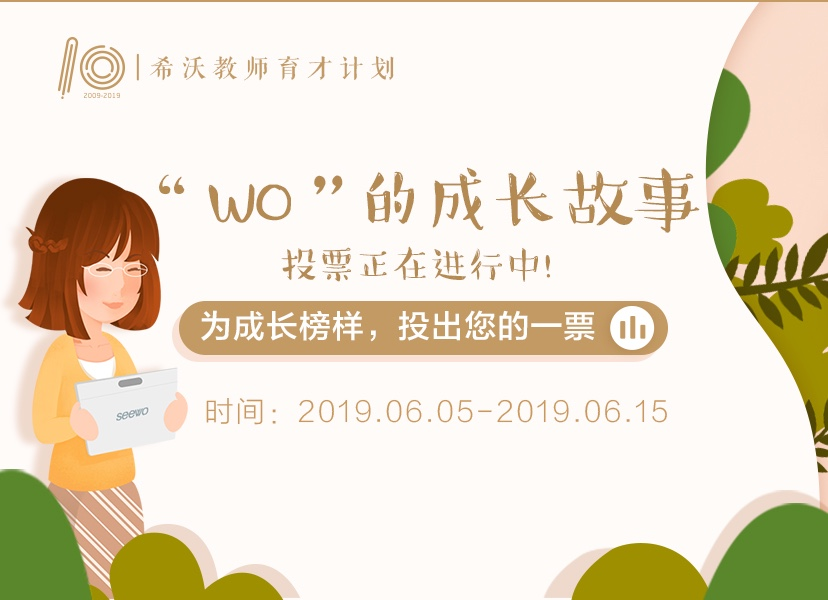
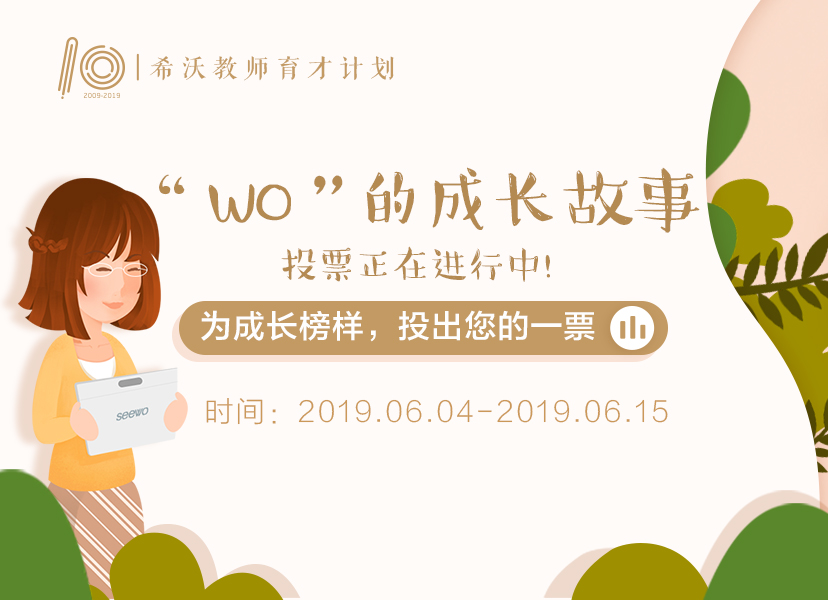
update

diff --git a/seewo/m/dev/article.html b/seewo/m/dev/article.html
@@ -1,1 +1,1 @@
-<!DOCTYPE html><html lang="zh-CN"><head><title>希沃</title><meta name="keywords" content=""><meta name="description" content=""><meta http-equiv="Content-Type" content="text/html; charset=utf-8"><meta name="viewport" content="initial-scale=1,maximum-scale=1,user-scalable=no,width=device-width"><link rel="shortcut icon" type="image/x-icon" href="/favicon.ico"><link rel="stylesheet" href="./css/article.css?v=1"></head><body><div class="main-wrapper"><div class="header"><div class="header-content"><a href="javascript:;" class="logo"><img src="./images/logo.png"></a><a href="./example.html" class="menu-btn"><img src="./images/back.png"></a></div><div class="point-wrapper" id="point-wrapper"><a href="javascript:;" class="point-item">首页</a> <a href="javascript:;" class="point-item">让教育更美好</a> <a href="javascript:;" class="point-item">庆典盛况</a> <a href="javascript:;" class="point-item">育才计划</a> <a href="javascript:;" class="point-item">希沃发展</a> <a href="javascript:;" class="point-item">合作媒体</a></div><div class="vote-pop-wrapper" id="vote-pop-wrapper"><a href="javascript:;" class="point-item">曹燕</a> <a href="javascript:;" class="point-item">陈科军</a> <a href="javascript:;" class="point-item">陈丽娟</a> <a href="javascript:;" class="point-item">陈跃飞</a> <a href="javascript:;" class="point-item">封爱玲</a> <a href="javascript:;" class="point-item">冯汝贵</a> <a href="javascript:;" class="point-item">黄吉雁</a> <a href="javascript:;" class="point-item">李鹏</a> <a href="javascript:;" class="point-item">李亚宁</a> <a href="javascript:;" class="point-item">刘俊</a> <a href="javascript:;" class="point-item">刘霞</a> <a href="javascript:;" class="point-item">陆炳康</a> <a href="javascript:;" class="point-item">罗群</a> <a href="javascript:;" class="point-item">潘多玲</a> <a href="javascript:;" class="point-item">孙果</a> <a href="javascript:;" class="point-item">温惠平</a> <a href="javascript:;" class="point-item">徐开容</a> <a href="javascript:;" class="point-item">闫社锋</a> <a href="javascript:;" class="point-item">严峥</a> <a href="javascript:;" class="point-item">杨波</a> <a href="javascript:;" class="point-item">杨登骥</a> <a href="javascript:;" class="point-item">叶传意</a> <a href="javascript:;" class="point-item">张楠</a> <a href="javascript:;" class="point-item">张颖</a> <a href="javascript:;" class="point-item">赵彩香</a> <a href="javascript:;" class="point-item">赵相文</a> <a href="javascript:;" class="point-item">赵小利</a></div></div><div class="content"><div class="article-wrapper"><div class="art-title">详细规则</div><div class="article-content"><h5>活动主题</h5><p>参与活动：“wo”的成长故事</p><p>官网展示：榜样的力量</p><h5>活动时间</h5><p>故事征集 <span>2019年5月4日-5月25日</span></p><p>展示投票 <span>2019年6月5日-6月15日</span></p><p>获奖公布 <span>2019年6月18日</span></p><h5>活动奖励</h5><p><span>积极奖——按规定要求参与即可</span></p><p>希沃学院商城1000积分</p><p>凡按照要求提交成长故事+佐证材料，在5月5日至5月20日期间提交，即可获得该奖励。（注：用户须保证作品原创性，不得盗用、歪曲、抄袭他人作品）</p><p class="mt50"><span>入围奖——官方评选30份</span></p><p>希沃10周年定制礼盒</p><p>凡参与故事征集，且被官方评选出获得投票资格，即可获得该奖励。官方评选维度包括：</p><p>①故事分享全面且具体，</p><p>②佐证材料的真实且丰富，图片材料不少于一张。</p><p>③叙事角度独到且富有行业感染力</p><p class="mt50"><span>人气奖——投票评比10名</span></p><p>第1名 希科多体征监测仪</p><p>第2-10名 希沃10周年定制银币</p><p>凡参与故事征集，并在投票阶段获得100票以上且进入总票数前10名即可获得该奖励。</p><h5>活动规则</h5><p>1、 各用户参与本次活动的故事征集时间为<span>2019年5月5日-5月25日</span>，投票时间为<span>2019年6月5日-6月15日</span>，结果公布时间为<span>2019年6月18日</span>。</p><p>2、 本次活动仅限希沃注册教师身份用户参与，如用户已拥有希沃账号，登录即可参与。如用户尚未注册，请访问希沃学院官网（<a href="https://study.seewoedu.cn/">https://study.seewoedu.cn/</a>），注册后即可参与。</p><p>3、 如用户按照活动要求上传相关内容，则成功参与本次活动故事征集并获得“积极奖”。同时，故事审核通过的用户将获得“入围奖”，并参与投票。“人气奖”将于6月5日至6月15日在51微投票进行线上公开投票，“教育先行者”游学之旅获奖者将由本次活动组委会综合多维度进行评选。“人气奖”及“游学之旅”奖励评选结果将于2019年6月18日23：59前在希沃学院公众号文章展示公布。</p><p>4、审核以第一次提交的作品为准，同一用户多次提交或提交再修改，均视为无效作品，不予审核。</p><p>5、“积极奖”、“入围奖”及“人气奖”获奖用户将在6月19日前收到希沃工作人员短信通知，用户须在收到私信后7天内提交领奖资料，逾期视为自动放弃。6月30日前，实物奖品将通过快递寄发，并通过号码开头为106的集团短信通知，经验值奖品通过论坛系统自动发放。“教育先行者”游学之旅，工作人员将一对一电话通知，届时请留意</p><p>6、本次活动中，同一用户（同一用户定义包括但不限于同一手机号码、同一IP地址、同一姓名、同一收件地址之用户）仅能获得获得一份“积极奖”奖励，若同一用户重复参与及获奖，我们仅派送一份奖励。</p><p>7、本次活动中，各用户享有的一切奖励均不允许兑换、转让、折现。</p><p>8、参与本次活动，用户须保证用户所上传作品的著作权合法性，承诺该作品不属于歪曲、篡改他人作品或者抄袭、剽窃他人作品而产生的作品，亦不属于改编、翻译、注释、整理他人已有作品而产生的作品。如发现任何侵犯著作权的情况，主办方有权取消该作品参赛资格。</p><p>9、参与本次活动各用户知悉、理解并同意授权广州视睿电子科技有限公司及其关联公司可非独家、可转授权地使用用户通过本次活动发布的内容，前述内容包括但不限于文字、图片、视频等。具体来说，可能会包括：</p><p>·将前述内容通过希沃软件自身或其他第三方技术、网络等在广州视睿电子科技有限公司选择的网络平台、应用程序或产品中，以有线或无线网，通过免费或收费的方式在不同终端（包括但不限于电脑、手机、互联网电视、机顶盒及其他上网设备等）以不同形式（包括但不限于点播、直播、下载等）进行网络传播；</p><p>·将前述内容复制、翻译、编入广州视睿电子科技有限公司当前已知或以后开发的作品、媒体或技术中，用于微博相关用途开发推广宣传等；</p><p>·将前述内容授权给电台、电视台、网络媒体、运营商平台等与广州视睿电子科技有限公司有合作的媒体或运营商播放、传播，用于微博相关推广宣传等；</p><p>·其他广州视睿电子科技有限公司及其关联公司出于善意或另行取得您授权的使用行为；</p><p>·用户对广州视睿电子科技有限公司及其关联公司的前述授权并不改变用户发布内容的所有权及知识产权归属，也并不影响用户行使其对发布内容的合法权利；</p><p>·广州视睿电子科技有限公司将尽最大的商业努力合理使用用户的授权内容，但并不代表广州视睿电子科技有限公司及其关联公司承诺一定会使用。</p><p>10、本次活动由希沃学院组织实施并负责解释；如用户对本次活动及规则有任何疑问、异议，可以联系我们反馈。</p><p>11、 联系信息：非常感谢用户对本次活动的积极参与，如用户有任何问题、意见或疑虑，请通过希沃客服电话：<span>400-186-2505</span>联系我们。</p><h5>H5投票页面规则：</h5><p>1、 各用户参与本次投票活动的时间为<span>2019年6月5日12:00</span>至<span>2019年6月15日23:00</span>，结果公布时间为<span>2019年6月18日</span>。</p><p>2、每个微信账号每天可投2票，不可重复投给同一位选手。</p><p>3、本次活动严禁使用任何外挂插件或利用系统漏洞恶意刷奖，一经发现，所获奖励将不予发放。请尊重其他用户公平参与的权利，切勿恶意刷奖。</p><p>4、用户在参与本次活动中发生的任何费用，包括但不限于上网费、电话费等，均由用户自行承担。</p><p>5、如用户因设备故障、网络错误、操作失误等原因导致无法成功参与本次活动，一切责任由用户自行承担。</p><p>6、鉴于计算机及互联网的特殊性，因包括但不限于黑客、病毒、电信部门技术调整和骨干线路中断等事件以及自然灾害、战争等不可抗拒之因素影响本次活动开展的，则希沃学院有权根据实际情况选择暂缓、中止或取消本次活动，且无需因此向用户承担在任何责任。</p><p>7、本次活动由希沃学院组织实施并负责解释；如用户对本次活动及规则有任何疑问、异议，可以联系我们反馈。</p><p>8、 联系信息：非常感谢用户对本次活动的积极参与，如用户有任何问题、意见或疑虑，请通过希沃客服电话：<span>400-186-2505</span>联系我们。</p></div></div></div></div></body></html>
+<!DOCTYPE html><html lang="zh-CN"><head><title>希沃</title><meta name="keywords" content=""><meta name="description" content=""><meta http-equiv="Content-Type" content="text/html; charset=utf-8"><meta name="viewport" content="initial-scale=1,maximum-scale=1,user-scalable=no,width=device-width"><link rel="shortcut icon" type="image/x-icon" href="/favicon.ico"><link rel="stylesheet" href="./css/article.css?v=1"></head><body><div class="main-wrapper"><div class="header"><div class="header-content"><a href="javascript:;" class="logo"><img src="./images/logo.png"></a><a href="./example.html" class="menu-btn"><img src="./images/back.png"></a></div><div class="point-wrapper" id="point-wrapper"><a href="javascript:;" class="point-item">首页</a> <a href="javascript:;" class="point-item">让教育更美好</a> <a href="javascript:;" class="point-item">庆典盛况</a> <a href="javascript:;" class="point-item">育才计划</a> <a href="javascript:;" class="point-item">希沃发展</a> <a href="javascript:;" class="point-item">合作媒体</a></div><div class="vote-pop-wrapper" id="vote-pop-wrapper"><a href="javascript:;" class="point-item">曹燕</a> <a href="javascript:;" class="point-item">陈科军</a> <a href="javascript:;" class="point-item">陈丽娟</a> <a href="javascript:;" class="point-item">陈跃飞</a> <a href="javascript:;" class="point-item">封爱玲</a> <a href="javascript:;" class="point-item">冯汝贵</a> <a href="javascript:;" class="point-item">黄吉雁</a> <a href="javascript:;" class="point-item">李鹏</a> <a href="javascript:;" class="point-item">李亚宁</a> <a href="javascript:;" class="point-item">刘俊</a> <a href="javascript:;" class="point-item">刘霞</a> <a href="javascript:;" class="point-item">陆炳康</a> <a href="javascript:;" class="point-item">罗群</a> <a href="javascript:;" class="point-item">潘多玲</a> <a href="javascript:;" class="point-item">孙果</a> <a href="javascript:;" class="point-item">温惠平</a> <a href="javascript:;" class="point-item">徐开容</a> <a href="javascript:;" class="point-item">闫社锋</a> <a href="javascript:;" class="point-item">严峥</a> <a href="javascript:;" class="point-item">杨波</a> <a href="javascript:;" class="point-item">杨登骥</a> <a href="javascript:;" class="point-item">叶传意</a> <a href="javascript:;" class="point-item">张楠</a> <a href="javascript:;" class="point-item">张颖</a> <a href="javascript:;" class="point-item">赵彩香</a> <a href="javascript:;" class="point-item">赵相文</a> <a href="javascript:;" class="point-item">赵小利</a></div></div><div class="content"><div class="article-wrapper"><div class="art-title">详细规则</div><div class="article-content"><h5>活动主题</h5><p>参与活动：“wo”的成长故事</p><p>官网展示：榜样的力量</p><h5>活动时间</h5><p>故事征集 <span>2019年5月4日-5月25日</span></p><p>展示投票 <span>2019年6月4日-6月15日</span></p><p>获奖公布 <span>2019年6月18日</span></p><h5>活动奖励</h5><p><span>积极奖——按规定要求参与即可</span></p><p>希沃学院商城1000积分</p><p>凡按照要求提交成长故事+佐证材料，在5月5日至5月20日期间提交，即可获得该奖励。（注：用户须保证作品原创性，不得盗用、歪曲、抄袭他人作品）</p><p class="mt50"><span>入围奖——官方评选</span></p><p>希沃10周年定制礼盒</p><p>凡参与故事征集，且被官方评选出获得投票资格，即可获得该奖励。官方评选维度包括：</p><p>①故事分享全面且具体，</p><p>②佐证材料的真实且丰富，图片材料不少于一张。</p><p>③叙事角度独到且富有行业感染力</p><p class="mt50"><span>人气奖——投票评比10名</span></p><p>第1名 希科多体征监测仪</p><p>第2-10名 希沃10周年定制银币</p><p>凡参与故事征集，并在投票阶段获得100票以上且进入总票数前10名即可获得该奖励。</p><h5>活动规则</h5><p>1、 各用户参与本次活动的故事征集时间为<span>2019年5月5日-5月25日</span>，投票时间为<span>2019年6月4日-6月15日</span>，结果公布时间为<span>2019年6月18日</span>。</p><p>2、 本次活动仅限希沃注册教师身份用户参与，如用户已拥有希沃账号，登录即可参与。如用户尚未注册，请访问希沃学院官网（<a href="https://study.seewoedu.cn/">https://study.seewoedu.cn/</a>），注册后即可参与。</p><p>3、 如用户按照活动要求上传相关内容，则成功参与本次活动故事征集并获得“积极奖”。同时，故事审核通过的用户将获得“入围奖”，并参与投票。“人气奖”将于6月4日至6月15日在51微投票进行线上公开投票，“教育先行者”游学之旅获奖者将由本次活动组委会综合多维度进行评选。“人气奖”及“游学之旅”奖励评选结果将于2019年6月18日23：59前在希沃学院公众号文章展示公布。</p><p>4、审核以第一次提交的作品为准，同一用户多次提交或提交再修改，均视为无效作品，不予审核。</p><p>5、“积极奖”、“入围奖”及“人气奖”获奖用户将在6月19日前收到希沃工作人员短信通知，用户须在收到私信后7天内提交领奖资料，逾期视为自动放弃。6月30日前，实物奖品将通过快递寄发，并通过号码开头为106的集团短信通知，经验值奖品通过论坛系统自动发放。“教育先行者”游学之旅，工作人员将一对一电话通知，届时请留意</p><p>6、本次活动中，同一用户（同一用户定义包括但不限于同一手机号码、同一IP地址、同一姓名、同一收件地址之用户）仅能获得获得一份“积极奖”奖励，若同一用户重复参与及获奖，我们仅派送一份奖励。</p><p>7、本次活动中，各用户享有的一切奖励均不允许兑换、转让、折现。</p><p>8、参与本次活动，用户须保证用户所上传作品的著作权合法性，承诺该作品不属于歪曲、篡改他人作品或者抄袭、剽窃他人作品而产生的作品，亦不属于改编、翻译、注释、整理他人已有作品而产生的作品。如发现任何侵犯著作权的情况，主办方有权取消该作品参赛资格。</p><p>9、参与本次活动各用户知悉、理解并同意授权广州视睿电子科技有限公司及其关联公司可非独家、可转授权地使用用户通过本次活动发布的内容，前述内容包括但不限于文字、图片、视频等。具体来说，可能会包括：</p><p>·将前述内容通过希沃软件自身或其他第三方技术、网络等在广州视睿电子科技有限公司选择的网络平台、应用程序或产品中，以有线或无线网，通过免费或收费的方式在不同终端（包括但不限于电脑、手机、互联网电视、机顶盒及其他上网设备等）以不同形式（包括但不限于点播、直播、下载等）进行网络传播；</p><p>·将前述内容复制、翻译、编入广州视睿电子科技有限公司当前已知或以后开发的作品、媒体或技术中，用于微博相关用途开发推广宣传等；</p><p>·将前述内容授权给电台、电视台、网络媒体、运营商平台等与广州视睿电子科技有限公司有合作的媒体或运营商播放、传播，用于微博相关推广宣传等；</p><p>·其他广州视睿电子科技有限公司及其关联公司出于善意或另行取得您授权的使用行为；</p><p>·用户对广州视睿电子科技有限公司及其关联公司的前述授权并不改变用户发布内容的所有权及知识产权归属，也并不影响用户行使其对发布内容的合法权利；</p><p>·广州视睿电子科技有限公司将尽最大的商业努力合理使用用户的授权内容，但并不代表广州视睿电子科技有限公司及其关联公司承诺一定会使用。</p><p>10、本次活动由希沃学院组织实施并负责解释；如用户对本次活动及规则有任何疑问、异议，可以联系我们反馈。</p><p>11、 联系信息：非常感谢用户对本次活动的积极参与，如用户有任何问题、意见或疑虑，请通过希沃客服电话：<span>400-186-2505</span>联系我们。</p><h5>H5投票页面规则：</h5><p>1、 各用户参与本次投票活动的时间为<span>2019年6月4日19:00</span>至<span>2019年6月15日23:59</span>，结果公布时间为<span>2019年6月18日</span>。</p><p>2、每个微信账号每天可投2票，不可重复投给同一位选手。</p><p>3、本次活动严禁使用任何外挂插件或利用系统漏洞恶意刷奖，一经发现，所获奖励将不予发放。请尊重其他用户公平参与的权利，切勿恶意刷奖。</p><p>4、用户在参与本次活动中发生的任何费用，包括但不限于上网费、电话费等，均由用户自行承担。</p><p>5、如用户因设备故障、网络错误、操作失误等原因导致无法成功参与本次活动，一切责任由用户自行承担。</p><p>6、鉴于计算机及互联网的特殊性，因包括但不限于黑客、病毒、电信部门技术调整和骨干线路中断等事件以及自然灾害、战争等不可抗拒之因素影响本次活动开展的，则希沃学院有权根据实际情况选择暂缓、中止或取消本次活动，且无需因此向用户承担在任何责任。</p><p>7、本次活动由希沃学院组织实施并负责解释；如用户对本次活动及规则有任何疑问、异议，可以联系我们反馈。</p><p>8、 联系信息：非常感谢用户对本次活动的积极参与，如用户有任何问题、意见或疑虑，请通过希沃客服电话：<span>400-186-2505</span>联系我们。</p></div></div></div></div></body></html>

diff --git a/seewo/m/src/article.html b/seewo/m/src/article.html
@@ -14,13 +14,13 @@
             <p>官网展示：榜样的力量</p>
             <h5>活动时间</h5>
             <p>故事征集 <span>2019年5月4日-5月25日</span></p>
-            <p>展示投票 <span>2019年6月5日-6月15日</span></p>
+            <p>展示投票 <span>2019年6月4日-6月15日</span></p>
             <p>获奖公布 <span>2019年6月18日</span></p>
             <h5>活动奖励</h5>
             <p><span>积极奖——按规定要求参与即可</span></p>
             <p>希沃学院商城1000积分</p>
             <p>凡按照要求提交成长故事+佐证材料，在5月5日至5月20日期间提交，即可获得该奖励。（注：用户须保证作品原创性，不得盗用、歪曲、抄袭他人作品）</p>
-            <p class="mt50"><span>入围奖——官方评选30份</span></p>
+            <p class="mt50"><span>入围奖——官方评选</span></p>
             <p>希沃10周年定制礼盒</p>
             <p>凡参与故事征集，且被官方评选出获得投票资格，即可获得该奖励。官方评选维度包括：</p>
             <p>①故事分享全面且具体，</p>
@@ -33,9 +33,9 @@
             <p>凡参与故事征集，并在投票阶段获得100票以上且进入总票数前10名即可获得该奖励。</p>
 
             <h5>活动规则</h5>
-            <p>1、 各用户参与本次活动的故事征集时间为<span>2019年5月5日-5月25日</span>，投票时间为<span>2019年6月5日-6月15日</span>，结果公布时间为<span>2019年6月18日</span>。</p>
+            <p>1、 各用户参与本次活动的故事征集时间为<span>2019年5月5日-5月25日</span>，投票时间为<span>2019年6月4日-6月15日</span>，结果公布时间为<span>2019年6月18日</span>。</p>
             <p>2、 本次活动仅限希沃注册教师身份用户参与，如用户已拥有希沃账号，登录即可参与。如用户尚未注册，请访问希沃学院官网（<a href="https://study.seewoedu.cn/">https://study.seewoedu.cn/</a>），注册后即可参与。</p>
-            <p>3、 如用户按照活动要求上传相关内容，则成功参与本次活动故事征集并获得“积极奖”。同时，故事审核通过的用户将获得“入围奖”，并参与投票。“人气奖”将于6月5日至6月15日在51微投票进行线上公开投票，“教育先行者”游学之旅获奖者将由本次活动组委会综合多维度进行评选。“人气奖”及“游学之旅”奖励评选结果将于2019年6月18日23：59前在希沃学院公众号文章展示公布。</p>
+            <p>3、 如用户按照活动要求上传相关内容，则成功参与本次活动故事征集并获得“积极奖”。同时，故事审核通过的用户将获得“入围奖”，并参与投票。“人气奖”将于6月4日至6月15日在51微投票进行线上公开投票，“教育先行者”游学之旅获奖者将由本次活动组委会综合多维度进行评选。“人气奖”及“游学之旅”奖励评选结果将于2019年6月18日23：59前在希沃学院公众号文章展示公布。</p>
             <p>4、审核以第一次提交的作品为准，同一用户多次提交或提交再修改，均视为无效作品，不予审核。</p>
             <p>5、“积极奖”、“入围奖”及“人气奖”获奖用户将在6月19日前收到希沃工作人员短信通知，用户须在收到私信后7天内提交领奖资料，逾期视为自动放弃。6月30日前，实物奖品将通过快递寄发，并通过号码开头为106的集团短信通知，经验值奖品通过论坛系统自动发放。“教育先行者”游学之旅，工作人员将一对一电话通知，届时请留意</p>
             <p>6、本次活动中，同一用户（同一用户定义包括但不限于同一手机号码、同一IP地址、同一姓名、同一收件地址之用户）仅能获得获得一份“积极奖”奖励，若同一用户重复参与及获奖，我们仅派送一份奖励。</p>
@@ -51,7 +51,7 @@
             <p>10、本次活动由希沃学院组织实施并负责解释；如用户对本次活动及规则有任何疑问、异议，可以联系我们反馈。</p>
             <p>11、 联系信息：非常感谢用户对本次活动的积极参与，如用户有任何问题、意见或疑虑，请通过希沃客服电话：<span>400-186-2505</span>联系我们。</p>
             <h5>H5投票页面规则：</h5>
-            <p>1、 各用户参与本次投票活动的时间为<span>2019年6月5日12:00</span>至<span>2019年6月15日23:00</span>，结果公布时间为<span>2019年6月18日</span>。</p>
+            <p>1、 各用户参与本次投票活动的时间为<span>2019年6月4日19:00</span>至<span>2019年6月15日23:59</span>，结果公布时间为<span>2019年6月18日</span>。</p>
             <p>2、每个微信账号每天可投2票，不可重复投给同一位选手。</p>
             <p>3、本次活动严禁使用任何外挂插件或利用系统漏洞恶意刷奖，一经发现，所获奖励将不予发放。请尊重其他用户公平参与的权利，切勿恶意刷奖。</p>
             <p>4、用户在参与本次活动中发生的任何费用，包括但不限于上网费、电话费等，均由用户自行承担。</p>
